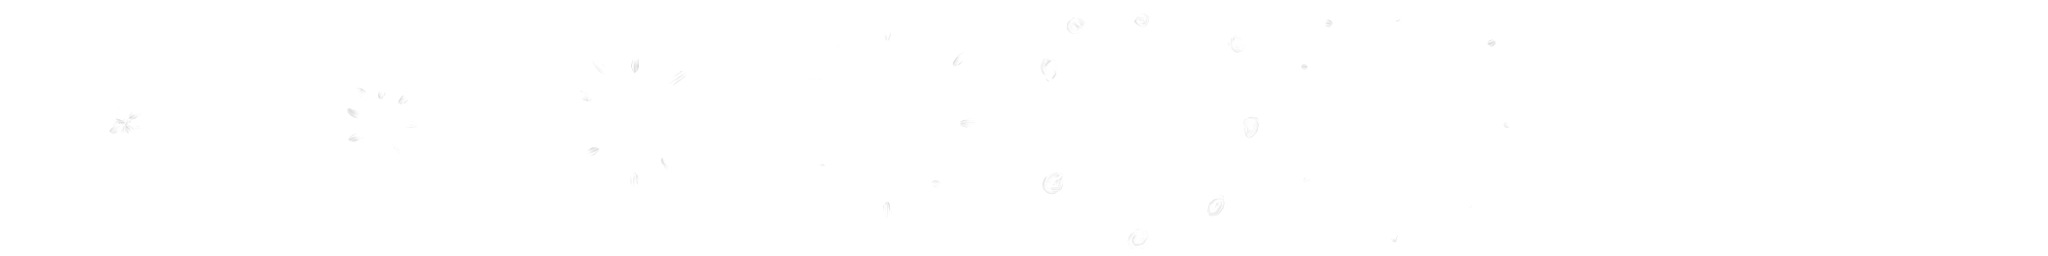
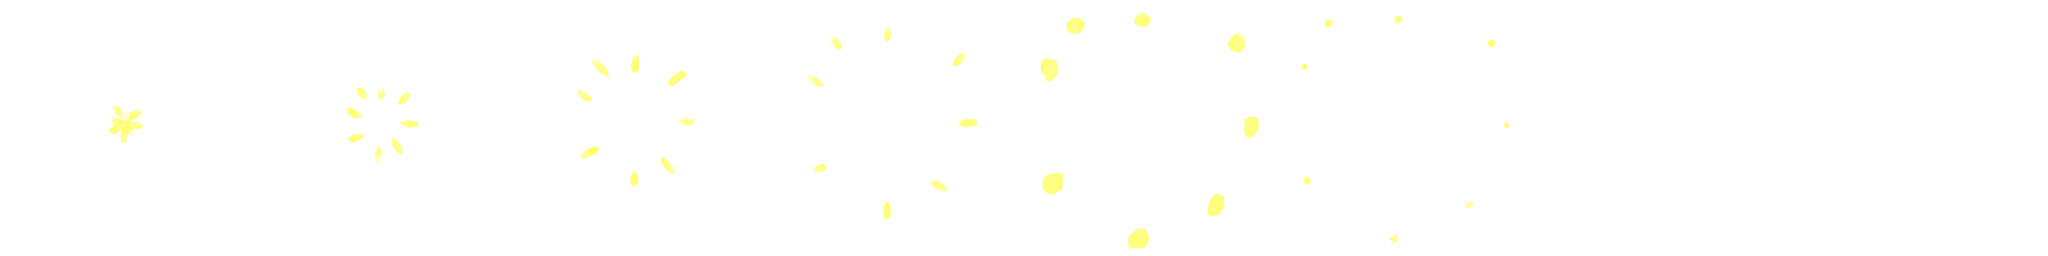
Better visual cues

diff --git a/js/entities/dancebox.js b/js/entities/dancebox.js
@@ -208,7 +208,7 @@
 	    }
 	    if(whichTarget != -1){
 		me.game.world.addChild(new game.Poof(e.gameX, e.gameY, 
-				true, false));
+				true));
 	    	delete me.game.DB.curPhrase.targets[whichTarget];
 	    }
 	}
@@ -232,8 +232,9 @@
 	      var targ = me.game.DB.curPhrase.targets[targnum];
 	      var countDiff = curCount - targ.count; //When it goes from < -1 to >= -1 we need to act
 	      if(countDiff >= -1 && countDiff - dt/me.game.DB.msPerBeat < -1){
-	      	me.game.world.addChild(new game.Poof(this.targets[targ.targetNum].x, 
-			    this.targets[targ.targetNum].y, true, true));
+	      	me.game.world.addChild(new game.Foop(this.targets[targ.targetNum].x, 
+			    this.targets[targ.targetNum].y,
+			    (targ.permittedSlop - countDiff)*me.game.DB.msPerBeat));
 	      }
 	  }
 	  //Also render the steps from the next stage of the song, assuming success
@@ -242,8 +243,9 @@
 	      var targ = me.game.DB.song[me.game.DB.curPhrase.onSuccess].targets[targnum];
 	      var countDiff = curCount - targ.count; //When it goes from < -1 to >= -1 we need to act
 	      if(countDiff >= -1 && countDiff - dt/me.game.DB.msPerBeat < -1){
-	      	me.game.world.addChild(new game.Poof(this.targets[targ.targetNum].x, 
-			    this.targets[targ.targetNum].y, true, true));
+	      	me.game.world.addChild(new game.Foop(this.targets[targ.targetNum].x, 
+			    this.targets[targ.targetNum].y,
+			    (targ.permittedSlop - countDiff)*me.game.DB.msPerBeat));
 	      }
 	  }
 

diff --git a/js/entities/foop.js b/js/entities/foop.js
@@ -1,17 +1,19 @@
 /**
- * Poof effect
+ * Foop effect
  */
 
- game.Poof = me.Sprite.extend({
+ game.Foop = me.Sprite.extend({
      /**
       * constructor
       */
-     init : function (x, y, good) {
+     init : function (x, y, lt) {
 	 // call the constructor
-	 this._super(me.Sprite, 'init', [x, y , {image: good ? "poof" : "badpoof", framewidth: 256, frameheight: 256}]);
-	 this.lifeTime = 666.667; //in ms
-         this.addAnimation("poof", [0, 1, 2, 3, 4, 5, 6], this.lifeTime/6);
-  	 this.setCurrentAnimation("poof");
+	 this._super(me.Sprite, 'init', [x, y , {image: "foop", framewidth: 128, frameheight: 128}]);
+	 this.msPerBeat = 666.667; //in ms
+	 this.lifeTime = lt;
+	 this.addAnimation("foop", [0, 1, 2, 3, 4], this.msPerBeat/5);
+	 this.addAnimation("wait", [4]);
+  	 this.setCurrentAnimation("foop", "wait");
   	 this.createTime = me.timer.getTime();
      },
 

diff --git a/index.html b/index.html
@@ -30,6 +30,7 @@
 
         <script type="text/javascript" src="js/entities/entities.js"></script>
         <script type="text/javascript" src="js/entities/dancebox.js"></script>
+        <script type="text/javascript" src="js/entities/foop.js"></script>
         <script type="text/javascript" src="js/entities/poof.js"></script>
         <script type="text/javascript" src="js/entities/HUD.js"></script>
 
